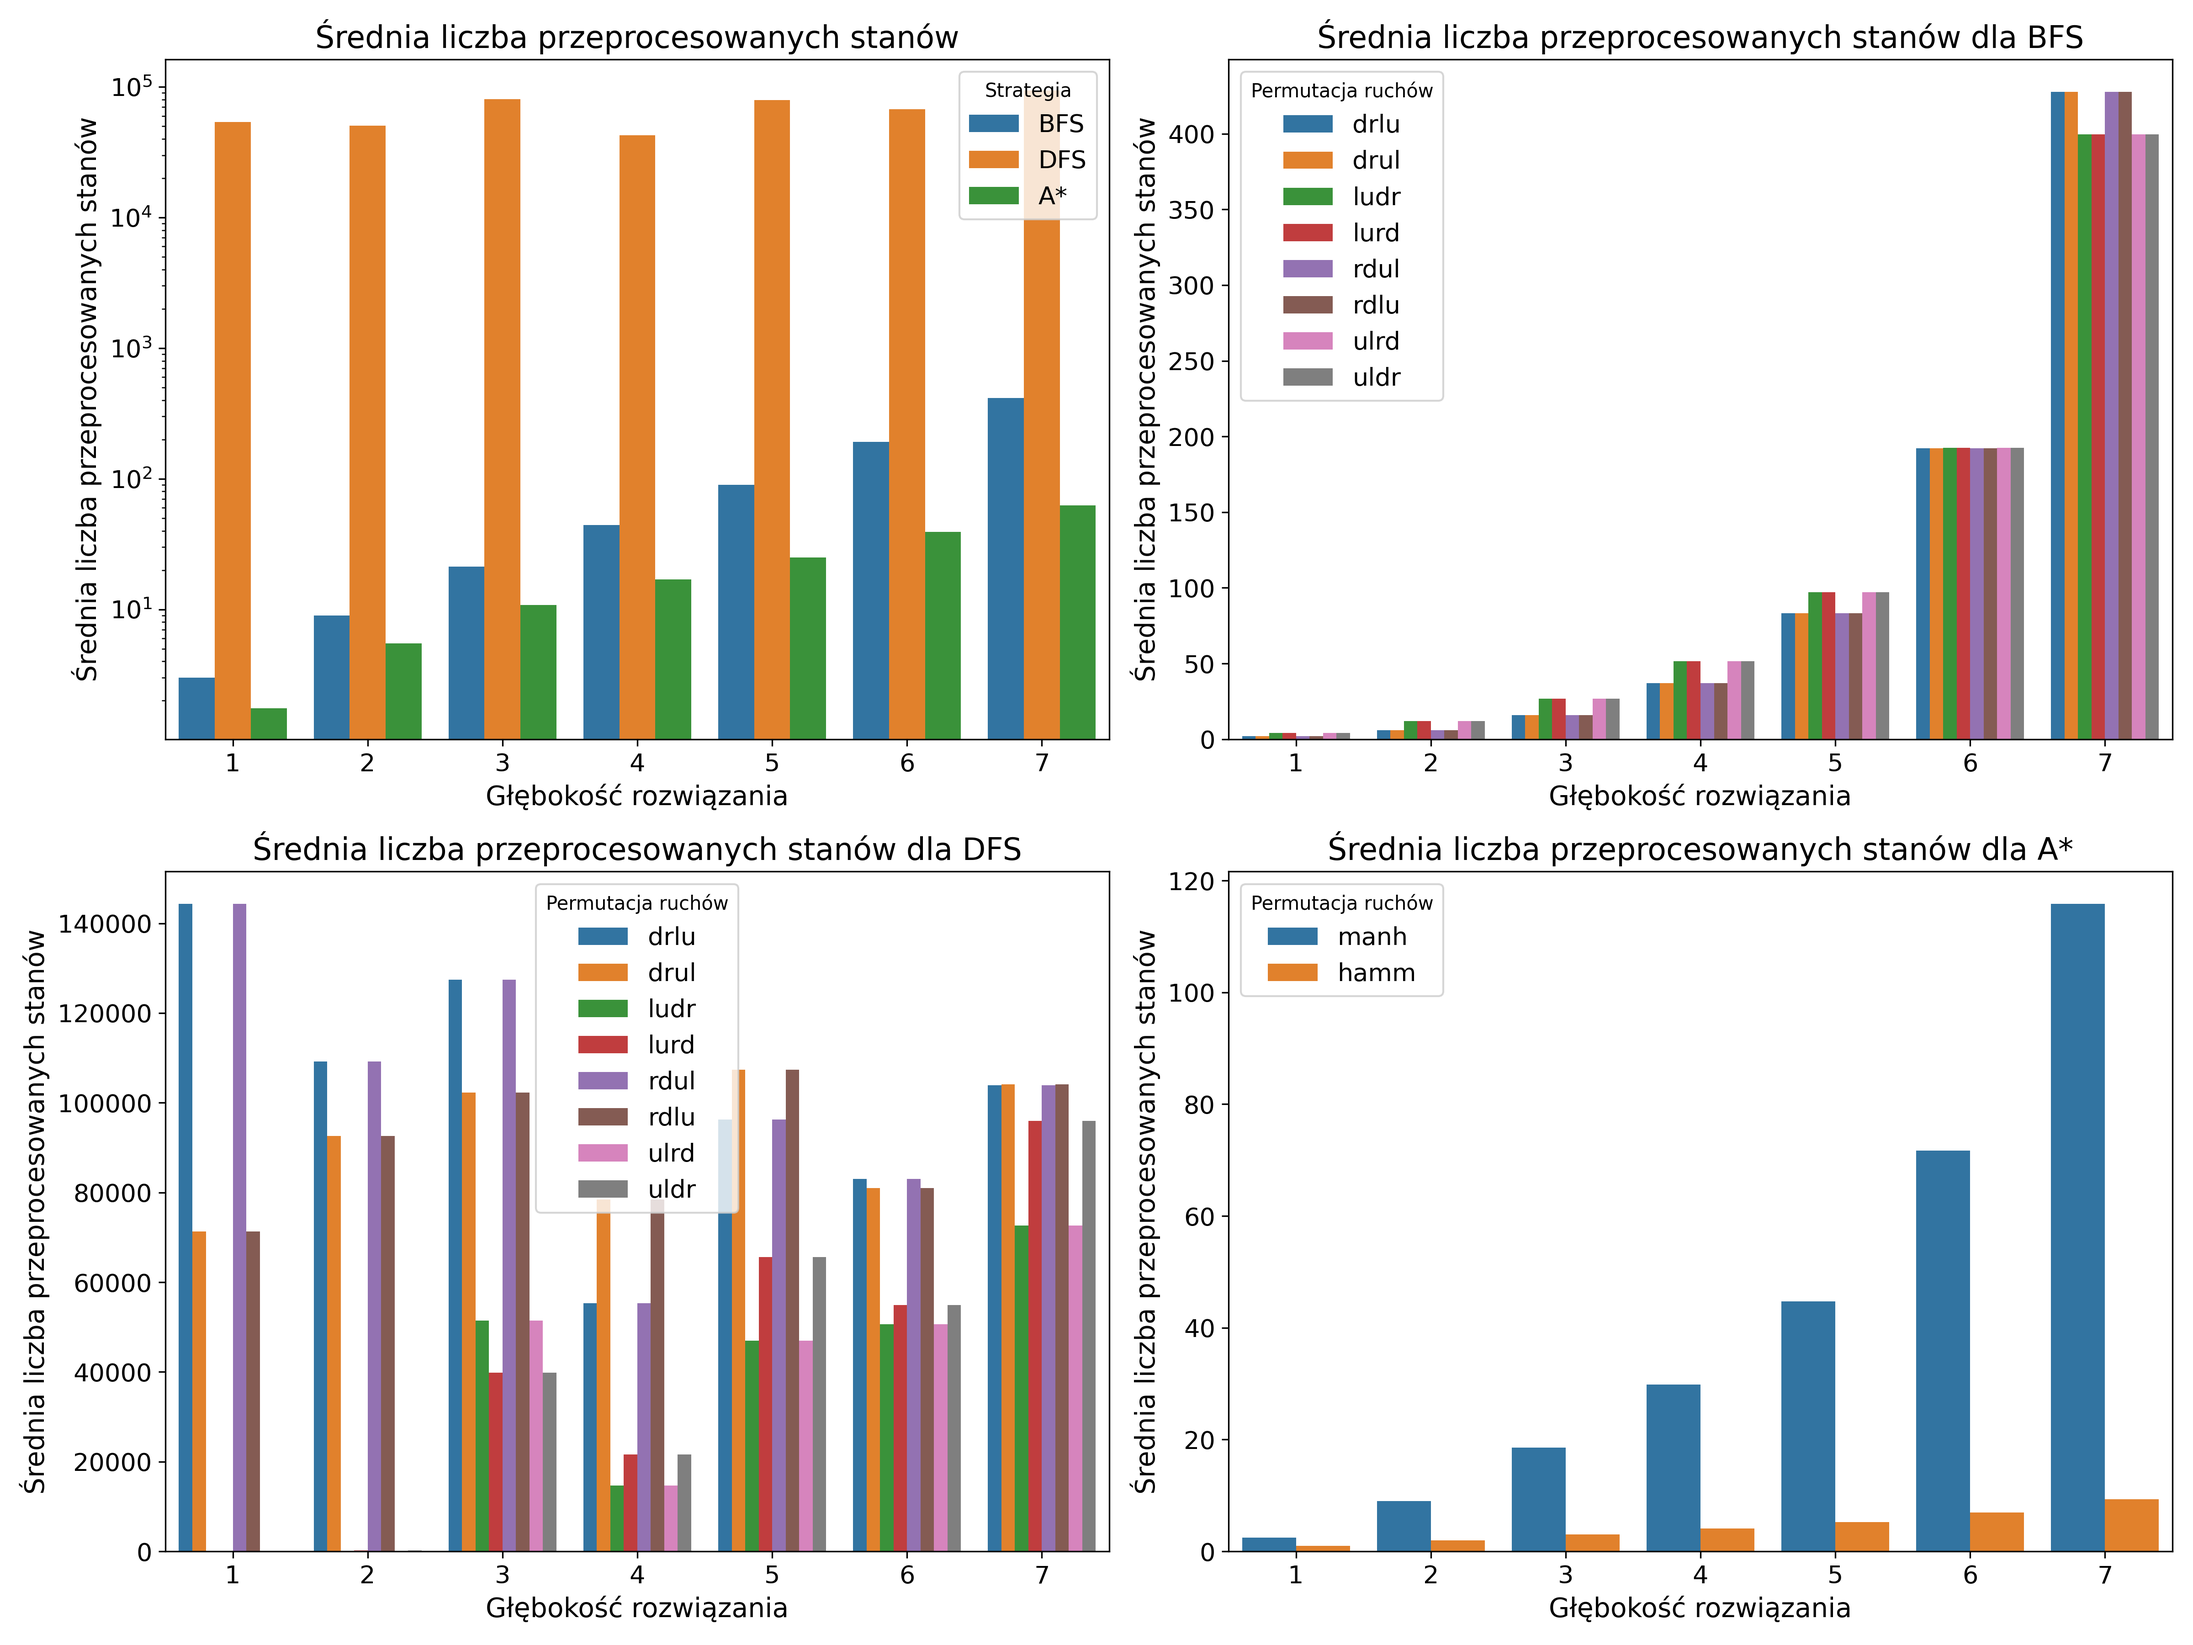
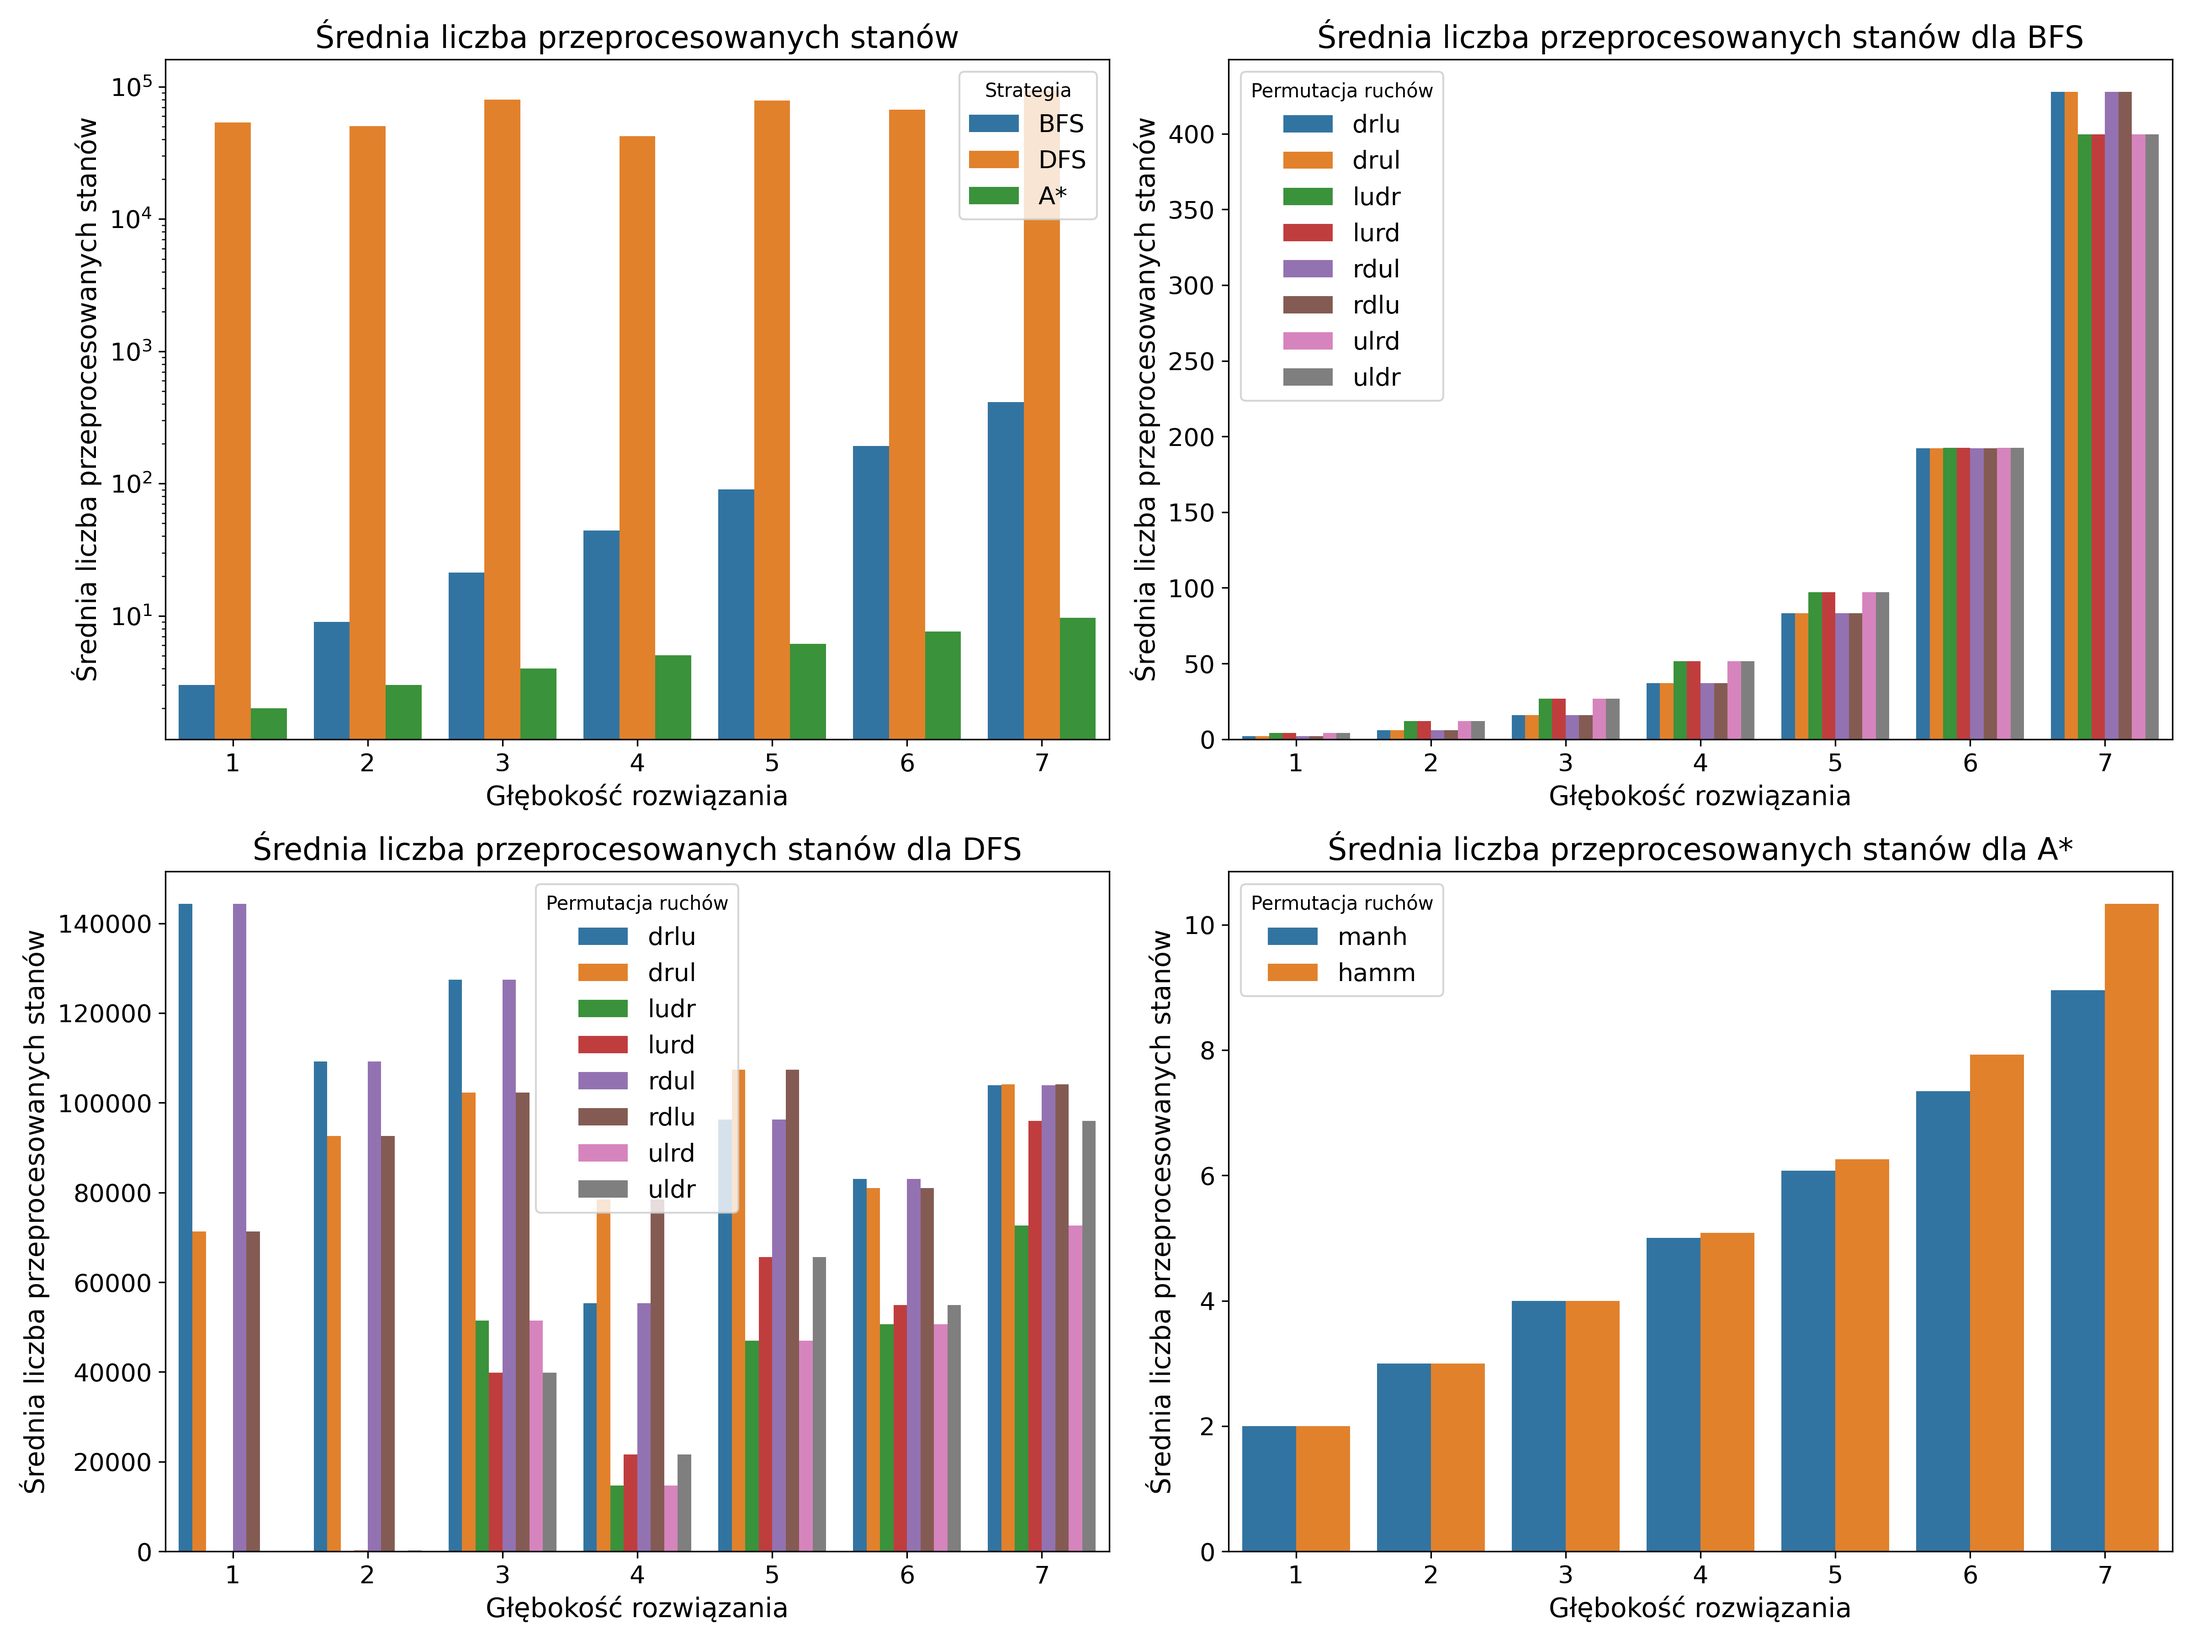
poprawa bledow

diff --git a/bfs.py b/bfs.py
@@ -20,10 +20,9 @@ def bfs(startNode, k, dirPermutation, maxLevel, stats):
 
     while(queue): #dopoki w kolejce sa wezly
         currentNode = queue.popleft() #pobieramy wezel z kolejki
-        visited.add(tuple(map(tuple, currentNode.getBoard()))) #dodajemy plansze jako krotkę do zbioru odwiedzonych
+        # visited.add(tuple(map(tuple, currentNode.getBoard()))) #dodajemy plansze jako krotkę do zbioru odwiedzonych
         #krotka, bo lista nie jest hashowalna, a krotka jest
 
-        #sprawdzamy czy nie przekroczylismy maksymalnej glebokosci
         # print(currentNode.getLevel())
         if(currentNode.getLevel() > stats.getMaxLevel()):
             stats.setMaxLevel(currentNode.getLevel())
@@ -33,13 +32,13 @@ def bfs(startNode, k, dirPermutation, maxLevel, stats):
         processed.add(tuple(map(tuple, currentNode.getBoard()))) #dodajemy plansze jjako przetworzona
         if currentNode.isSolution():
             stats.setVisited(len(visited))
-            stats.setProcessed(len(visited))
+            stats.setProcessed(len(processed))
             return currentNode.getStringPath()
         
 
         if(currentNode.getLevel() == maxLevel):
             stats.setVisited(len(visited))
-            stats.setProcessed(len(visited))
+            stats.setProcessed(len(processed))
             return None
         
         #dla kazdego ruchu tworzymy nowy wezel
@@ -83,6 +82,6 @@ def bfs(startNode, k, dirPermutation, maxLevel, stats):
                 #     return newNode.getStringPath()
 
     stats.setVisited(len(visited))
-    stats.setProcessed(len(visited))
+    stats.setProcessed(len(processed))
 
     return None # nie znaleziono rozwiazania

diff --git a/dfs.py b/dfs.py
@@ -10,15 +10,15 @@ def dfs(startNode, k, dirPermutation, maxLevel, stats):
 
     stats.setMaxLevel(0)
 
-    #kolejka fif do przechowywania wezlow po szerokosci
+    # lifo do przechowywania wezlow po szerokosci
     stack = []
 
-    stack.append(startNode) #dodajemy wezel startowy do kolejki
+    stack.append(startNode) #dodajemy wezel startowy do lifo
     visited.add(tuple(map(tuple, startNode.getBoard()))) #dodajemy plansze jako krotkę do zbioru odwiedzonych
 
 
     while(stack): #dopoki w kolejce sa wezly
-        currentNode = stack.pop() #pobieramy wezel z kolejki
+        currentNode = stack.pop() #pobieramy wezel z lifo
         visited.add(tuple(map(tuple, currentNode.getBoard()))) #dodajemy plansze jako krotkę do zbioru odwiedzonych
         #krotka, bo lista nie jest hashowalna, a krotka jest
 
@@ -31,7 +31,7 @@ def dfs(startNode, k, dirPermutation, maxLevel, stats):
         processed.add(tuple(map(tuple, currentNode.getBoard()))) #dodajemy plansze jako krotkę do zbioru odwiedzonych
         if currentNode.isSolution():
             stats.setVisited(len(visited))
-            stats.setProcessed(len(visited))
+            stats.setProcessed(len(processed))
             return currentNode.getStringPath()
         
         #sprawdzamy czy nie przekroczylismy maksymalnej glebokosci
@@ -80,5 +80,5 @@ def dfs(startNode, k, dirPermutation, maxLevel, stats):
                 #     return newNode.getStringPath()
 
     stats.setVisited(len(visited))
-    stats.setProcessed(len(visited))
+    stats.setProcessed(len(processed))
     return None # nie znaleziono rozwiazania

diff --git a/hamming.py b/hamming.py
@@ -27,10 +27,11 @@ def manhattan(board):
     #potrzebujemy x y gdzie powinno byc dane pole 
     for i in range(len(board)):
         for j in range(len(board[i])):
-            if board[i][j] == 0: # nie sprawdzamy zera
+            val = board[i][j]
+            if val == 0: # nie sprawdzamy zera
                 continue
-            x = board[i][j] // len(board) -1 # gdzie powinno byc dane pole
-            y = board[i][j] % len(board) -1
+            x = (val-1) // len(board)  # gdzie powinno byc dane pole
+            y = (val-1) % len(board)
             cnt += abs(x-i) + abs(y-j)
     
     return cnt
@@ -82,13 +83,13 @@ def aStar(startNode, k, dirPermutation, maxLevel, stats, heurystyka):
         #krotka, bo lista nie jest hashowalna, a krotka jest
         if currentNode.isSolution():
             stats.setVisited(len(visited))
-            stats.setProcessed(len(visited))
+            stats.setProcessed(len(processed))
             return currentNode.getStringPath()
         
 
         if(currentNode.getLevel() == maxLevel):
             stats.setVisited(len(visited))
-            stats.setProcessed(len(visited))
+            stats.setProcessed(len(processed))
             return None
         
         #dla kazdego ruchu tworzymy nowy wezel
